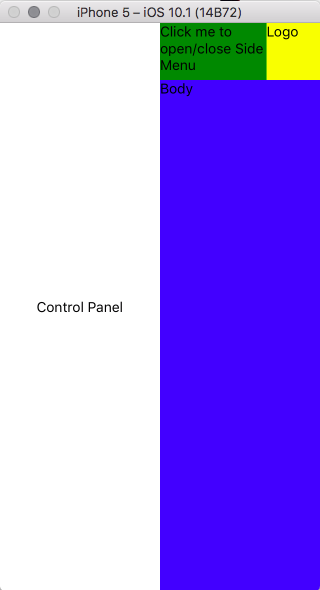
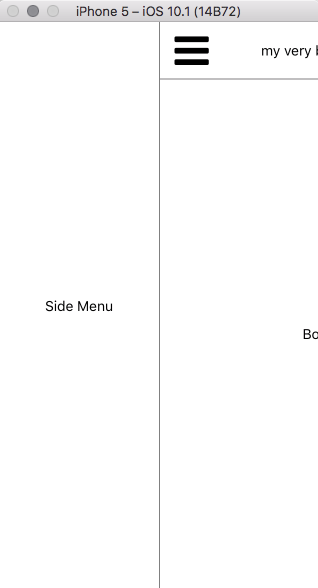
Update readme

diff --git a/readme.md b/readme.md
@@ -9,3 +9,9 @@ The App appears as follows:
 Clicking on the green header component will open the side menu:
 
 ![sidebar open](screenshots/sidebaropen.png)
+
+
+## Libraries used
+
+- react-native-drawer: sidebar
+- react-native-vector-icons: icons management
